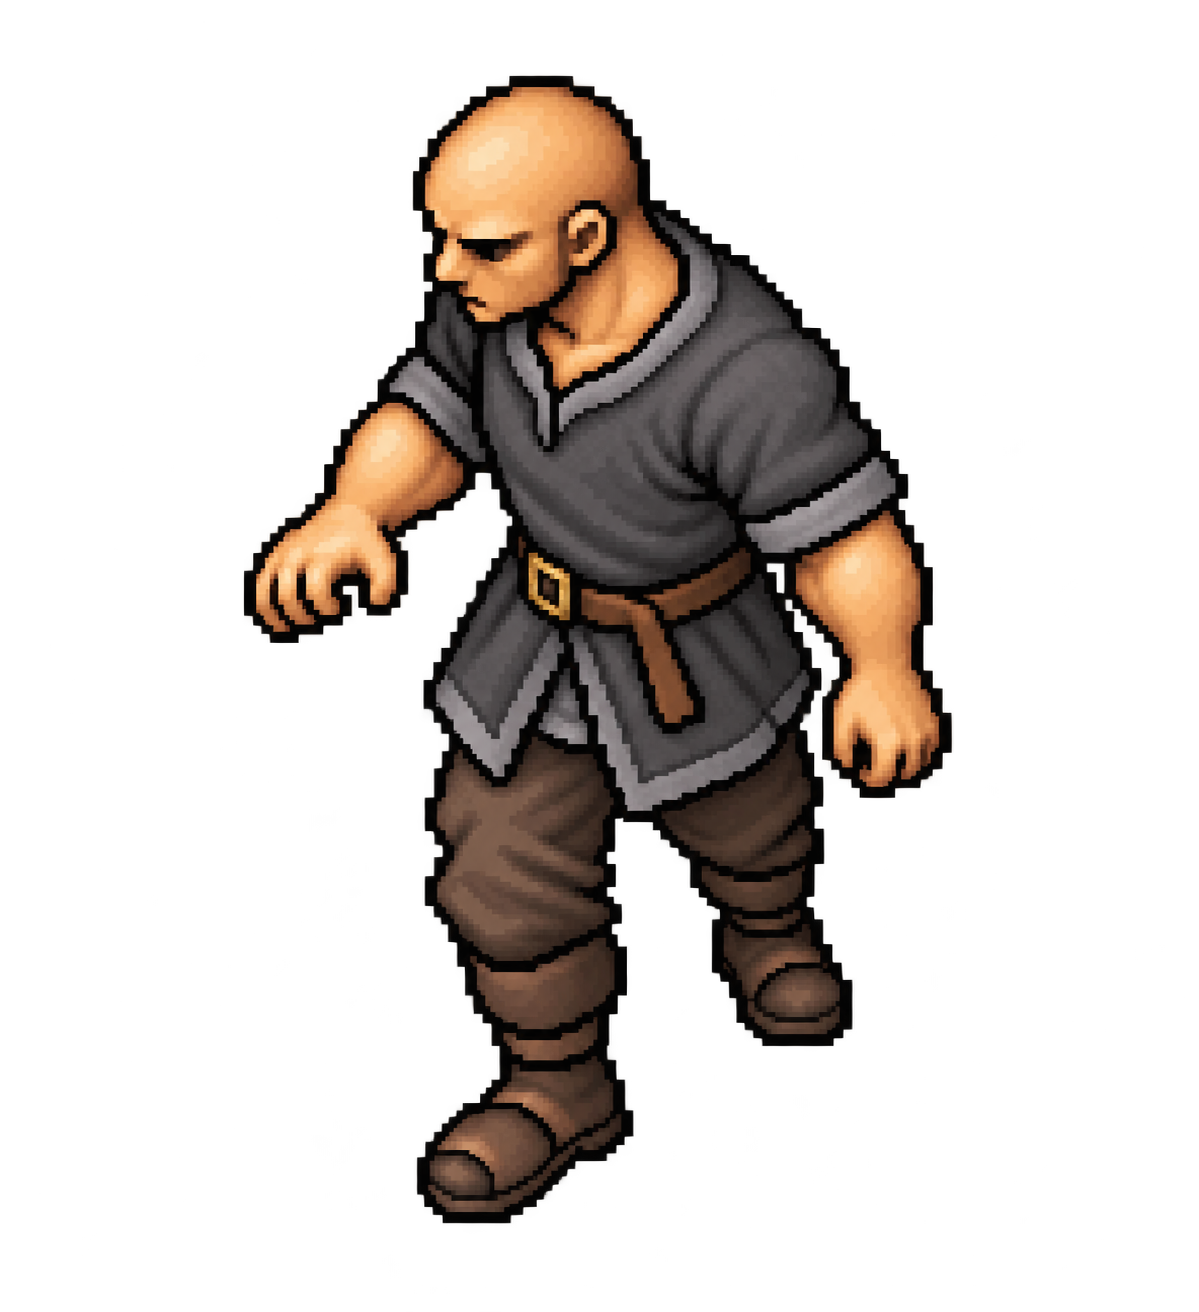
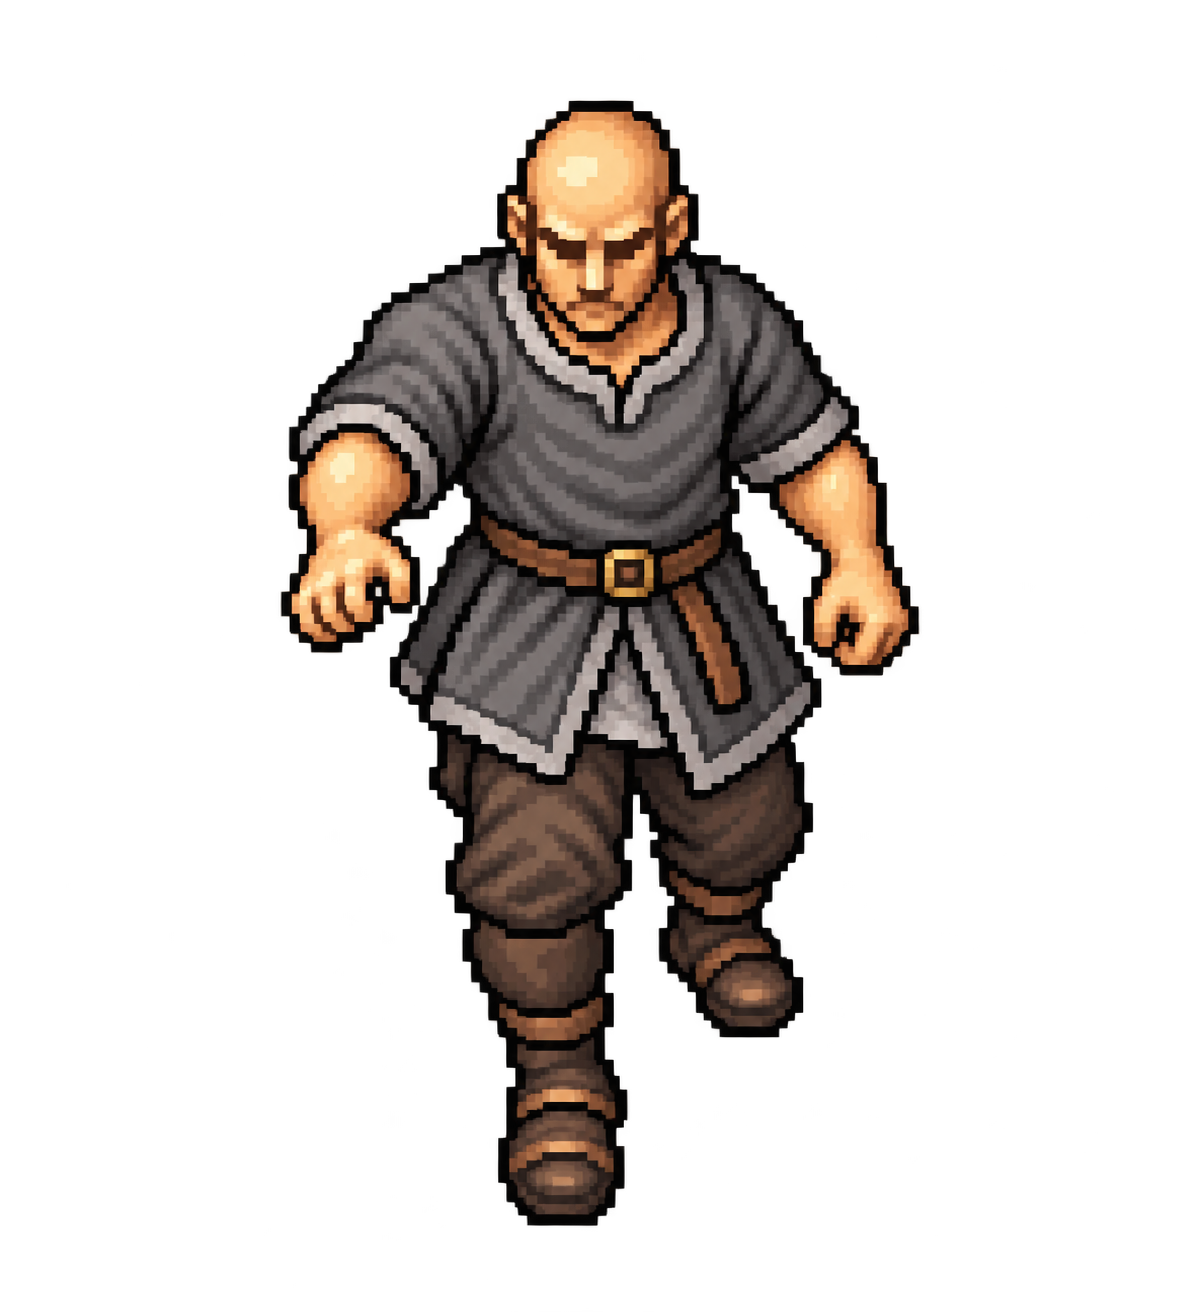
art: lock clarified high-angle front 3/4 camera and checkpoint reviewed trial assets

Changed region(s): [[0.1852, 0.0312, 0.8023, 0.9375]]

diff --git a/art/rebuild-skeletons/previews/review.html b/art/rebuild-skeletons/previews/review.html
@@ -1,0 +1,7 @@
+<!doctype html><html lang="ko"><meta charset="utf-8"><meta name="viewport" content="width=device-width,initial-scale=1">
+<title>표준 바디 · 10유닛 시험 검토</title><style>
+*{box-sizing:border-box}body{margin:0;background:#18211d;color:#eadfc7;font:16px/1.65 system-ui,sans-serif}header{padding:22px 24px;background:#202c25;border-bottom:1px solid #6f775b}h1{font-size:24px;margin:0 0 8px}p{margin:6px 0;color:#bec9b6}nav{display:flex;gap:8px;flex-wrap:wrap;padding:16px 24px;position:sticky;top:0;background:#18211df5}button{padding:12px 18px;font:inherit;border:1px solid #788168;border-radius:7px;background:#26372c;color:#eadfc7;cursor:pointer}button[aria-selected=true]{background:#c3aa70;color:#17221c}main{padding:0 18px 28px}figure{margin:0;overflow:auto;border:1px solid #465647;background:#202624}img{display:block;max-width:100%;height:auto;margin:auto}figcaption{padding:14px;color:#bec9b6}.hint{padding:0 24px 16px;font-size:14px}a{color:#dfc48a}
+</style><header><h1>표준 바디 + 신규 10종 · 시험 검토</h1><p>정면에 가까운 약한 사선 · 위에서 20~30도 · 인간형 5등신 중심 · 첨부 세오덴 픽셀톤</p><p>운영 에셋 교체 없음 / main 병합·배포 없음</p></header>
+<nav role="tablist"><button data-src="standard-bodies.png" aria-selected="true">표준 바디</button><button data-src="ten-units.png" aria-selected="false">신규 10종</button><button data-src="old-vs-new.png" aria-selected="false">기존 vs 신규</button><button data-src="terrain-placement.png" aria-selected="false">맵 배치</button></nav>
+<p class="hint">같은 월드 배율을 사용합니다. 장식물 포함 외곽 크기로 유닛을 맞추지 않습니다. 맵 배치는 운영 지형 위 제작용 합성이며 실제 전투 적용 화면은 아닙니다.</p><main><figure><img id="plate" src="standard-bodies.png" alt="표준 바디 모음"><figcaption id="caption">표준 바디: 종족별 체형과 기마 결합 위치를 비교합니다.</figcaption></figure></main>
+<script>const captions={'standard-bodies.png':'표준 바디: 종족별 체형과 기마 결합 위치를 비교합니다.','ten-units.png':'신규 10종: 바디 기반 복장·무장·문양을 얹은 시험용 유닛입니다.','old-vs-new.png':'기존/신규: 기준 main의 기존 프로필과 신규 수동 몸체 측정값으로 같은 월드 배율에 배치했습니다.','terrain-placement.png':'맵 배치: 운영 지형 원본 위 제작용 합성. 본게임 교체 및 실전 검증 전입니다.'};document.querySelectorAll('button').forEach(b=>b.onclick=()=>{document.querySelectorAll('button').forEach(x=>x.setAttribute('aria-selected',String(x===b)));const p=document.getElementById('plate');p.src=b.dataset.src;p.alt=b.textContent;document.getElementById('caption').textContent=captions[b.dataset.src]});</script></html>

diff --git a/art/rebuild-skeletons/tools/render_previews.py b/art/rebuild-skeletons/tools/render_previews.py
@@ -1,0 +1,107 @@
+"""Render review plates; assets are never repainted, stretched, cropped or overwritten.
+
+Run: python art/rebuild-skeletons/tools/render_previews.py
+Only preview composites are resized (uniform nearest-neighbour sampling).
+Source-space landmarks in measurements.json control scale and origin.
+"""
+from pathlib import Path
+import json, hashlib
+from PIL import Image, ImageDraw, ImageFont
+
+ROOT = Path(__file__).resolve().parents[1]
+OUT = ROOT / 'previews'
+BG = (32, 38, 36)
+FONT_PATH = '/usr/share/fonts/truetype/dejavu/DejaVuSans.ttf'
+def font(size=19):
+    try: return ImageFont.truetype(FONT_PATH, size)
+    except OSError: return ImageFont.load_default()
+
+def sprite(dest, path, profile, position, zoom=3):
+    """Body/rider reference span, never weapon/alpha-bounds height."""
+    im = Image.open(path).convert('RGBA')
+    w, h = im.size
+    span = (profile['bottom'] - profile['top']) * h
+    scale = profile['worldReferenceSize'] * zoom / span
+    sz = (round(w * scale), round(h * scale))
+    im = im.resize(sz, Image.Resampling.NEAREST)
+    x = round(position[0] - profile['centerX'] * sz[0])
+    y = round(position[1] - profile['centerY'] * sz[1])
+    dest.paste(im, (x, y), im)
+    return {'scale': scale, 'drawRect': [x, y, *sz]}
+
+def plate(records, folder, filename, title, zoom=3):
+    cw, ch = 384, 490
+    im = Image.new('RGB', (cw * 5, ch * 2 + 90), BG)
+    d = ImageDraw.Draw(im)
+    d.text((25, 18), title, font=font(25), fill='#ead6ac')
+    d.text((25, 56), 'Shared world scale / measured body or rider / no equipment-based fitting', font=font(17), fill='#bfc4b6')
+    for i, rec in enumerate(records):
+        x, y = i % 5 * cw, 90 + i // 5 * ch
+        d.rectangle((x+5, y+5, x+cw-5, y+ch-5), outline='#4d574f')
+        sprite(im, ROOT / folder / (rec['id']+'.png'), rec, (x+cw/2, y+225), zoom)
+        d.text((x+18, y+424), rec['label'], font=font(19), fill='#f2ead9')
+        d.text((x+18, y+454), str(rec['worldReferenceSize'])+' world px / '+rec['reference'], font=font(16), fill='#aebda9')
+    im.save(OUT / filename, optimize=True)
+
+def main():
+    OUT.mkdir(exist_ok=True)
+    data = json.loads((ROOT/'measurements.json').read_text())
+    bases, units = data['bases'], data['units']
+    old = {p['id']: p for p in json.loads((ROOT/'old-profiles.json').read_text())}
+    plate(bases, 'bases', 'standard-bodies.png', 'STANDARD BODIES / final high-angle front 3/4 camera')
+    plate(units, 'test-units', 'ten-units.png', 'TEN TRIAL UNITS / Theoden pixel-style reference')
+
+    cw, ch = 790, 440
+    im = Image.new('RGB', (cw*2, ch*5+70), BG)
+    d = ImageDraw.Draw(im)
+    d.text((24,18),'CURRENT ASSET vs NEW TEMPLATE DERIVATIVE / shared world zoom',font=font(23),fill='#ead6ac')
+    for i, rec in enumerate(units):
+        x, y = i%2*cw, 70+i//2*ch
+        d.rectangle((x+5,y+5,x+cw-5,y+ch-5),outline='#4d574f')
+        d.text((x+18,y+12),rec['label'],font=font(20),fill='#f2ead9')
+        d.text((x+140,y+45),'CURRENT',font=font(16),fill='#c7b09c')
+        d.text((x+535,y+45),'NEW',font=font(16),fill='#adc5a8')
+        sprite(im,ROOT/'references'/(rec['id']+'.png'),old[rec['id']],(x+195,y+230),2.65)
+        sprite(im,ROOT/'test-units'/(rec['id']+'.png'),rec,(x+595,y+230),2.65)
+        d.text((x+18,y+408),'Body-centred; source aspect ratios preserved',font=font(14),fill='#9daba0')
+    im.save(OUT/'old-vs-new.png',optimize=True)
+
+    # Production terrain bytes, copied unchanged; this is a placement study,
+    # not a claim that the battle runtime has been modified or playtested.
+    im = Image.new('RGB',(1920,1180))
+    terrain = ROOT/'references/terrain'
+    tile = Image.open(terrain/'meadow.webp').convert('RGB')
+    for y in range(0,1180,tile.height):
+        for x in range(0,1920,tile.width): im.paste(tile,(x,y))
+    for name,xy,sz in [('oak.png',(12,350),(200,197)),('rock.png',(1730,880),(150,118)),('oak.png',(1730,300),(190,187))]:
+        t=Image.open(terrain/name).convert('RGBA').resize(sz,Image.Resampling.NEAREST)
+        im.paste(t,xy,t)
+    d=ImageDraw.Draw(im)
+    d.rectangle((0,0,1920,116),fill=BG)
+    d.text((28,20),'TERRAIN PLACEMENT STUDY / proposed game-world sizes at 2x zoom',font=font(27),fill='#ead6ac')
+    d.text((28,70),'Production meadow terrain / body-centred / no game replacement or gameplay verification',font=font(19),fill='#c3cbbd')
+    for i,rec in enumerate(units):
+        pos=(260+i%5*350,350+i//5*480)
+        sprite(im,ROOT/'test-units'/(rec['id']+'.png'),rec,pos,2)
+        d.text((pos[0]-110,pos[1]+188),rec['label'],font=font(19),fill='#fff8df',stroke_width=2,stroke_fill='#283129')
+    im.save(OUT/'terrain-placement.png',optimize=True)
+
+    # Verify files, alpha, dimensions, physical hashes and supplied anchors.
+    report={'baseCount':len(bases),'unitCount':len(units),'files':[],'runtimeChanged':False,'deployment':False}
+    for folder, records in [('bases',bases),('test-units',units)]:
+        for rec in records:
+            path=ROOT/folder/(rec['id']+'.png')
+            pic=Image.open(path); pic.load()
+            assert pic.mode=='RGBA',path
+            assert min(pic.size)>=512,path
+            assert 0 <= rec['top'] < rec['bottom'] <= 1,path
+            assert 0 < rec['centerX'] < 1 and 0 < rec['centerY'] < 1,path
+            assert pic.getchannel('A').getextrema()[0]==0,path
+            bbox=pic.getchannel('A').point(lambda a:255 if a>128 else 0).getbbox()
+            assert bbox and bbox[0]>0 and bbox[1]>0 and bbox[2]<pic.width and bbox[3]<pic.height,path
+            report['files'].append({'file':str(path.relative_to(ROOT)),'dimensions':list(pic.size),'sha256':hashlib.sha256(path.read_bytes()).hexdigest(),'opaqueBounds':list(bbox)})
+    assert len(bases)==10 and len(units)==10
+    (ROOT/'verification.json').write_text(json.dumps(report,indent=2)+'\n')
+    print(json.dumps({'bases':len(bases),'units':len(units),'previews':4,'verified':len(report['files'])}))
+
+if __name__=='__main__': main()

diff --git a/art/rebuild-skeletons/README.md b/art/rebuild-skeletons/README.md
@@ -1,23 +1,53 @@
-# Standard body / ten-unit trial — work in progress
+# 표준 바디 + 신규 10유닛 시험 제작
 
-Repository: leesh603/mesbg-assets  
-Base main: 3f60319f2a02b5837f456ac1a6b241c0dac047e7  
-Branch: art/standard-bodies-10-unit-trial-20261019
+- 저장소: `leesh603/mesbg-assets`
+- 기준 main: `3f60319f2a02b5837f456ac1a6b241c0dac047e7`
+- 브랜치: `art/standard-bodies-10-unit-trial-20261019`
+- 운영 에셋/게임 코드 수정 없음. main 병합·배포 없음.
 
-This isolated experiment does not change game assets or game code. No main merge or deployment is authorized.
+## 최종 시점 기준
 
-## Construction reference
+**하이 앵글 프론트 3/4 픽셀아트. 정면에 가까운 약한 사선, 약 20~30도 위에서 내려다보는 구도. 인간형 5등신 중심. 머리·어깨·몸통·발의 윗면이 자연스럽게 보인다.**
 
-The supplied Theoden foot sprite is the pixel-style, stout-body and proportion reference. The initial athletic body and subsequent frontal body were rejected. They are not valid templates.
+첨부 세오덴 도보가 화풍·픽셀톤·체형의 최우선 기준이다. 제작 중 검토한 긴 팔다리의 운동선수형 바디와 강한 측면 회전 버전은 최종 기준에서 제외했다. 이번 폴더의 최종 파일만 검토한다.
 
-The revised human body has a visible torso side plane, offset front belt buckle, receding far shoulder, turned pelvis and aligned boot direction. All head, torso and pelvis planes must share the same elevated down-left three-quarter view. A turned face above a frontal torso is a rejection.
+## 제작 방식
 
-Bodies are neutral clothed shape templates, not anatomical skeleton drawings or animation rigs. Image generation uses these references; it cannot guarantee mechanically identical joints. Each derivative still requires visual landmark review.
+1. 무장 없는 회색 기본 복장으로 종족별 체형 템플릿 제작.
+2. 해당 템플릿을 이미지 편집의 첫 번째 구조 참조로 사용.
+3. 첨부 세오덴은 화풍, 운영 유닛은 복장·무장·문양만 참고.
+4. 완성 원본을 비등방 변형하거나 몸체 일부를 늘이지 않음.
+5. 크기·정렬은 별도로 기록한 머리/발/골반 및 몸체 중심으로 계산.
 
-## Planned deliverables
+이는 **2D 래스터 체형 템플릿 실험**이며 공유 관절을 강제로 고정하는 3D/스켈레탈 리그가 아니다. 생성 파생은 자세와 세부 관절을 완전히 고정하지 못하므로 바디와 파생 유닛의 육안 대조가 여전히 필요하다. 생성 이미지를 단순히 일괄 크기 조정했다고 체형 통일로 판정하지 않는다.
 
-- `bases/`: hobbit, dwarf, dwarf on boar, human, human on horse, orc, goblin, elf, large human, Uruk-hai.
-- `test-units/`: Frodo, Gimli, Dain on boar, Minas Tirith warrior, Theoden mounted, Glorfindel foot, Mordor orc, Moria goblin, Witch-king foot, Uruk-hai warrior.
-- `previews/`: bodies, ten units, old/new comparisons, terrain placement.
+## 구성
 
-Human body correction is checkpointed first. This checkpoint is not a completed ten-unit delivery.
+- `bases/`: 호빗, 드워프, 드워프 멧돼지 기마, 인간, 인간 기마, 오크, 고블린, 엘프, 큰 인간, 우루크하이.
+- `test-units/`: 프로도, 김리, 다인 멧돼지 기마, 미나스 티리스 병사, 세오덴 기마, 글로르핀델 도보, 모르도르 오크, 모리아 고블린, 위치킹 도보, 우루크하이 검방.
+- `references/`: 공급된 세오덴 및 기준 main의 기존 유닛·지형 파일. 원본 변경 없음.
+- `measurements.json`: 수동 검토한 크기 기준/몸체 중심. 무기·깃·망토는 크기 기준에서 제외.
+- `old-profiles.json`: 기준 main의 기존 렌더 프로필과 세오덴 기마 별도 측정값.
+- `prompts.json`: 최종 생성 지시문과 바디→유닛 연결.
+- `tools/render_previews.py`: 동일 월드 배율 비교 이미지 재생성.
+- `verification.json`: PNG 개수·해상도·투명 배경·여백·해시 검사 기록. 이것만으로 미술 품질을 합격 처리하지 않음.
+
+## 비교 프리뷰
+
+`previews/review.html`에서 모아 볼 수 있다.
+
+1. `standard-bodies.png`: 표준 바디 모음.
+2. `ten-units.png`: 신규 10종 모음.
+3. `old-vs-new.png`: 기존/신규, 같은 월드 배율 비교.
+4. `terrain-placement.png`: 운영 지형 위 제작용 배치 미리보기.
+
+지형 배치 이미지는 운영 지형 원본과 제안 렌더 크기로 만든 **배치 검토용 합성**이다. 본게임 교체나 실제 전투 검증을 했다는 뜻이 아니다.
+
+## 적용 전 남은 검토
+
+- 사용자가 최종 카메라·체형·화풍을 이미지로 판단.
+- 종족별 머리 크기, 갑옷 두께 및 망토가 체형을 과장하는지 추가 대조.
+- 기마의 기수 머리–앉은 골반 및 탈것 몸통 크기를 도보와 함께 확인.
+- 채택할 경우에만 별도 적용 작업에서 운영 프로필·썸네일 갱신 후 실제 전투 화면 검증.
+
+진행 중: 최종 시점 바디 및 파생 유닛 제작/검수 중. 완료 시 파일 개수와 검수 기록을 갱신한다.
